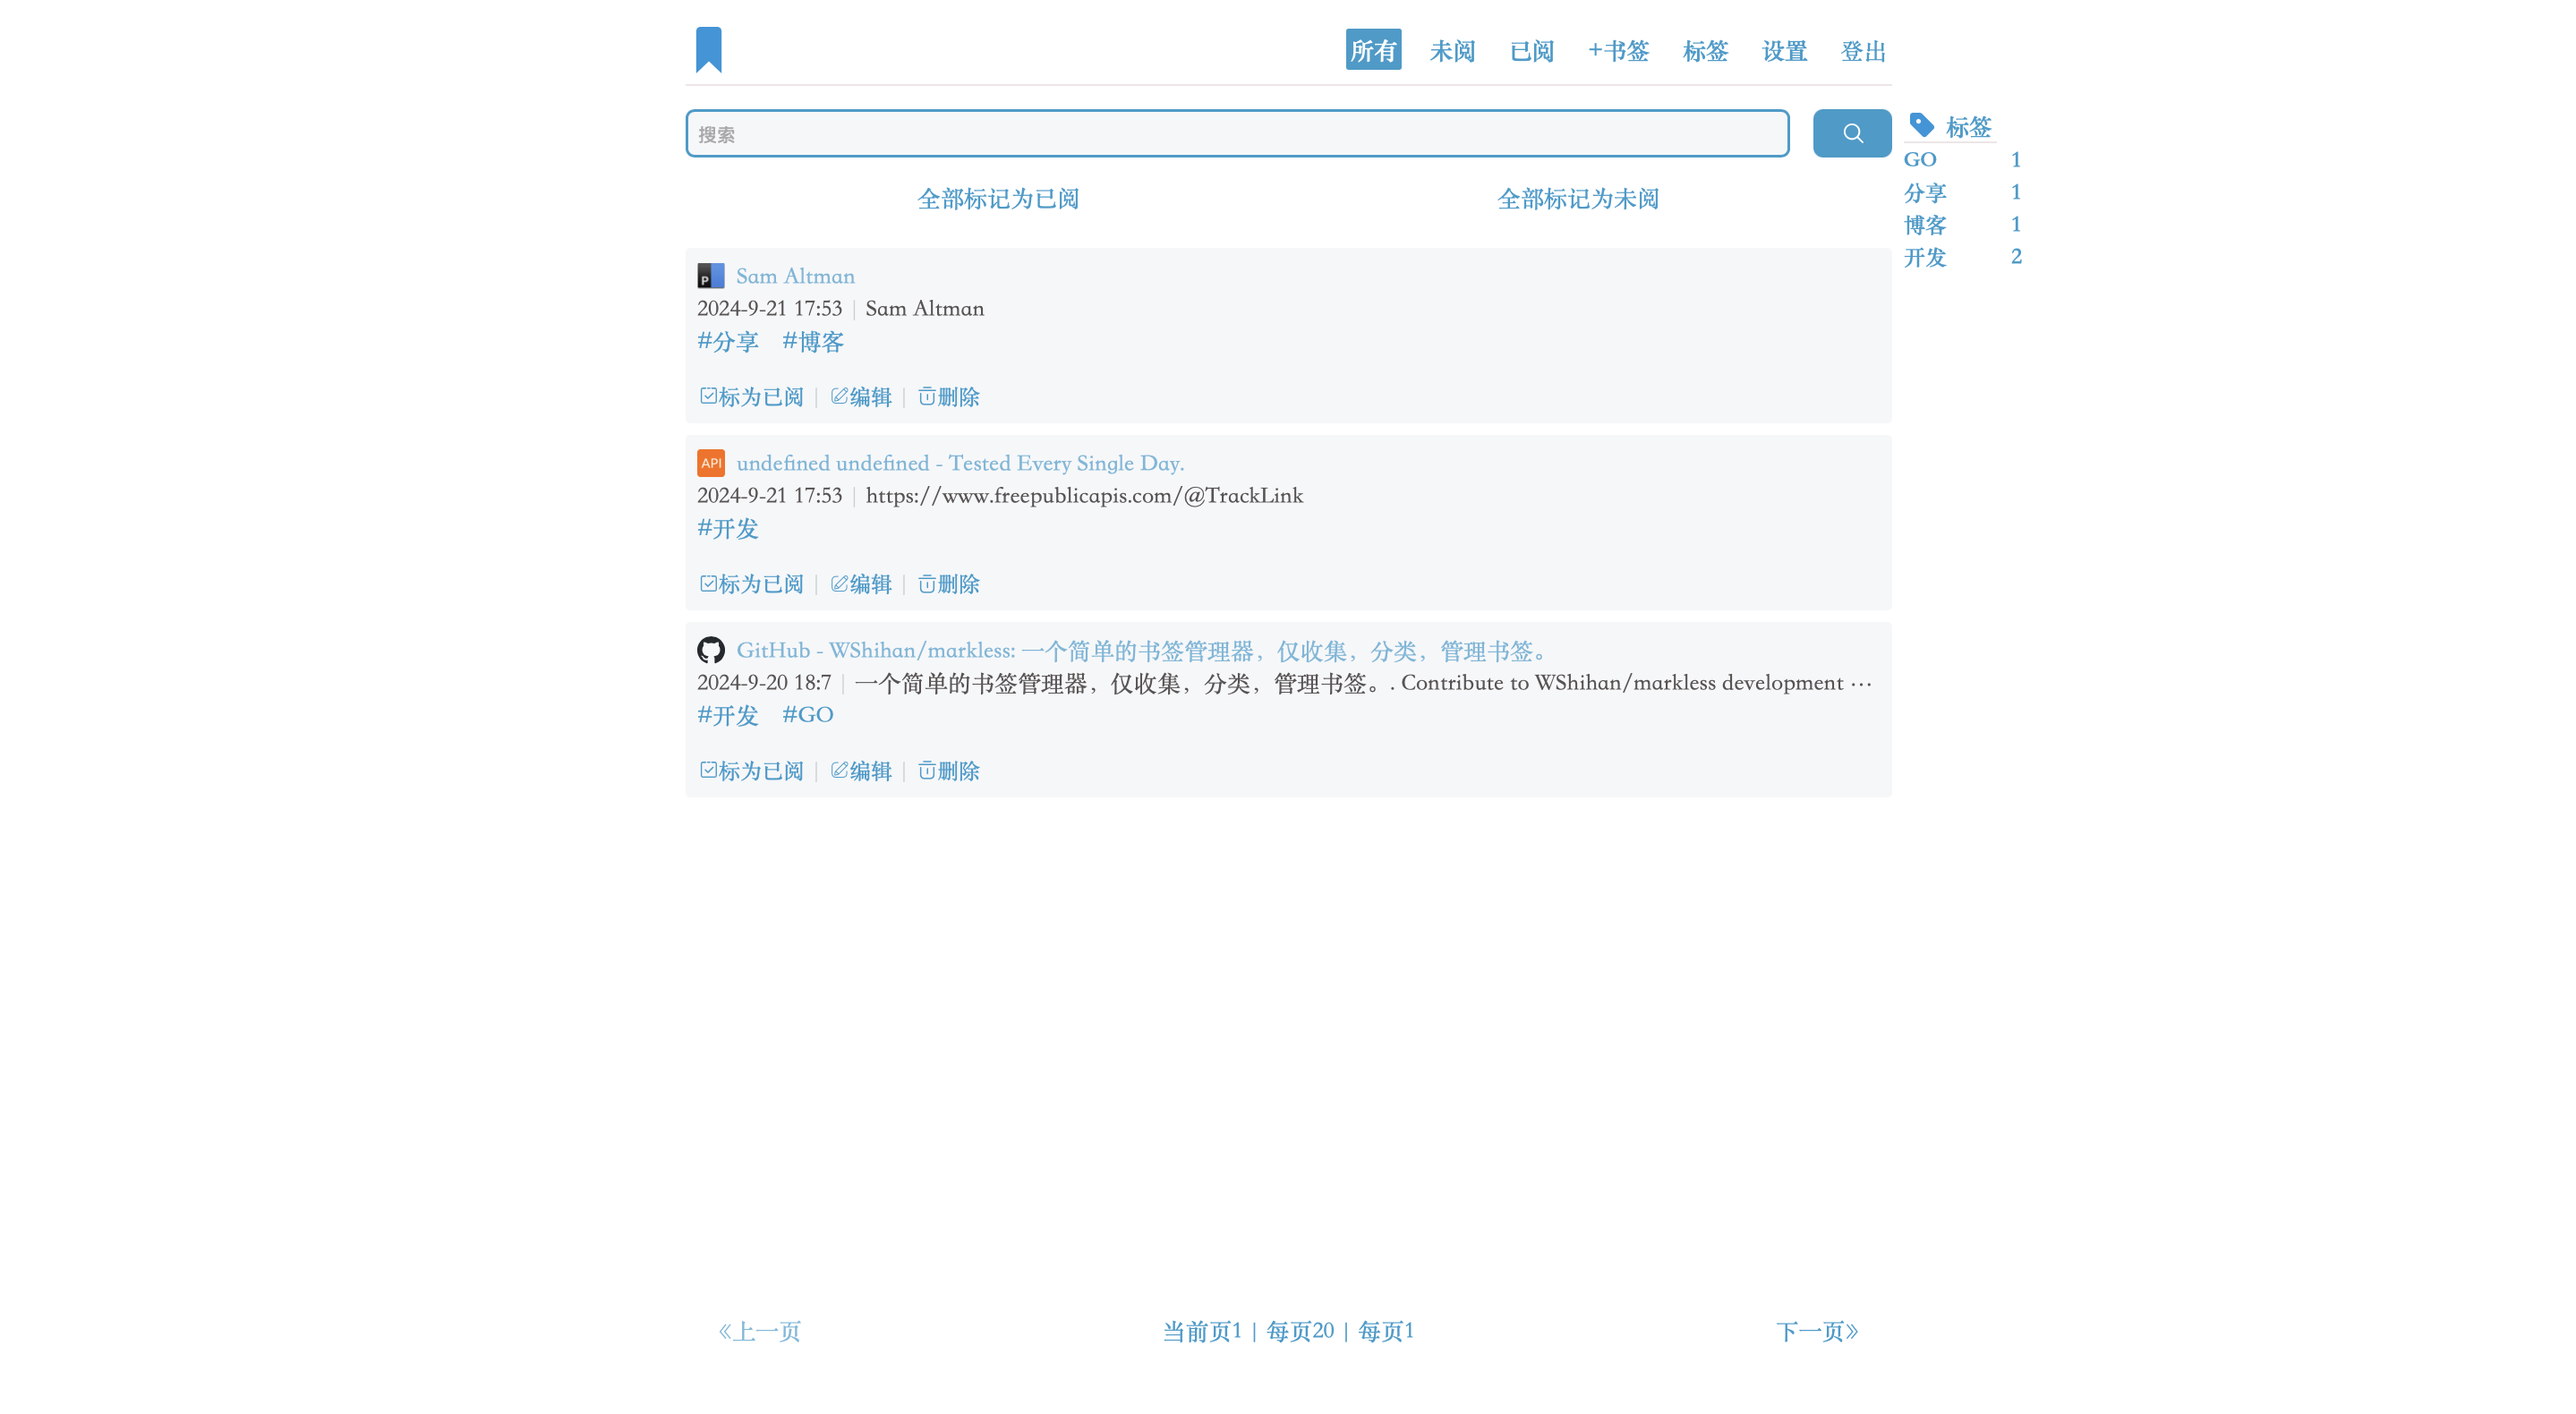
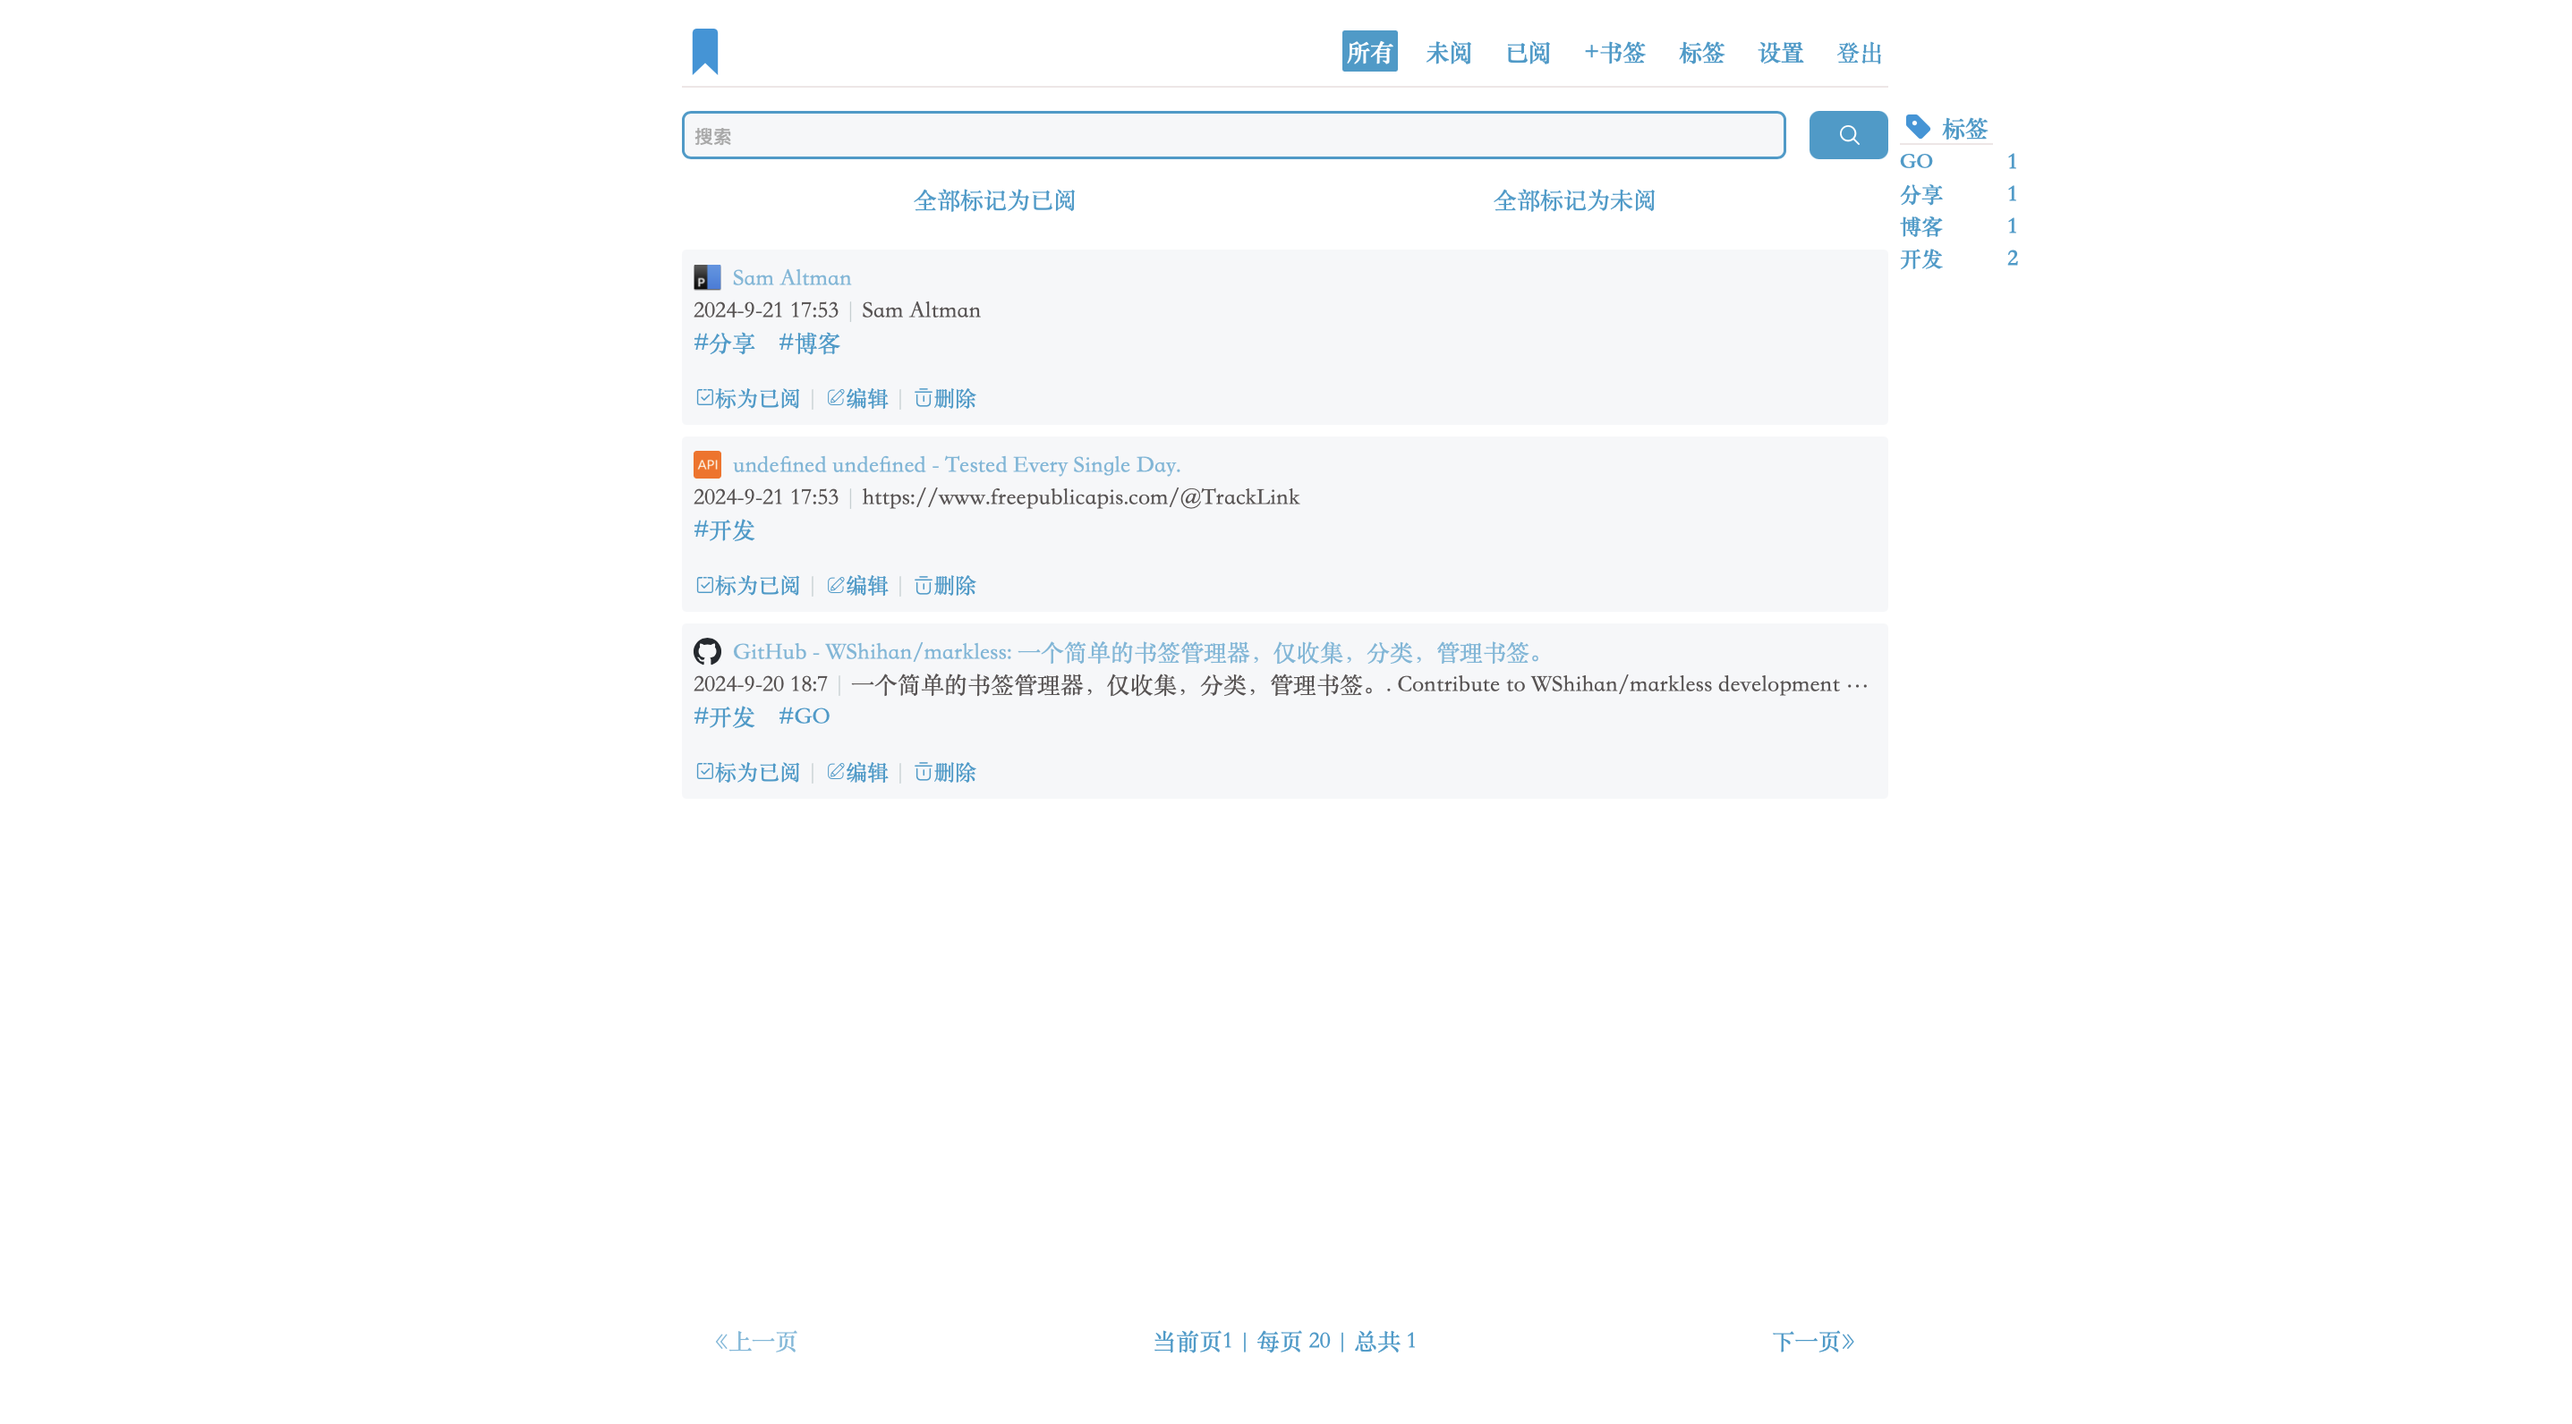
append

diff --git a/assets/html/index.html b/assets/html/index.html
@@ -77,7 +77,7 @@
     {{ else }}
     <span id="pre-page" class="icon">{{i18n "page.all.pre" $.Page.Lang}}</span>
     {{ end }}
-    <a id="current-page" data-page="{{.Search.Page}}" class="current icon">{{i18n "page.all.current-tip" $.Page.Lang}}{{.Search.Page | Increase}} | {{i18n "page.all.per-page" $.Page.Lang}}{{.Search.Limit }} | {{i18n "page.all.per-page" $.Page.Lang}}{{.Search.Pages}}</a>
+    <a id="current-page" data-page="{{.Search.Page}}" class="current icon">{{i18n "page.all.current-tip" $.Page.Lang}}{{.Search.Page | Increase}} | {{i18n "page.all.per-page" $.Page.Lang}} {{.Search.Limit }} | {{i18n "page.all.total-page" $.Page.Lang}} {{.Search.Pages}}</a>
     <span  id="next-page" class="icon" >{{i18n "page.all.next" $.Page.Lang}}</span>
   </div>
   <script defer>
